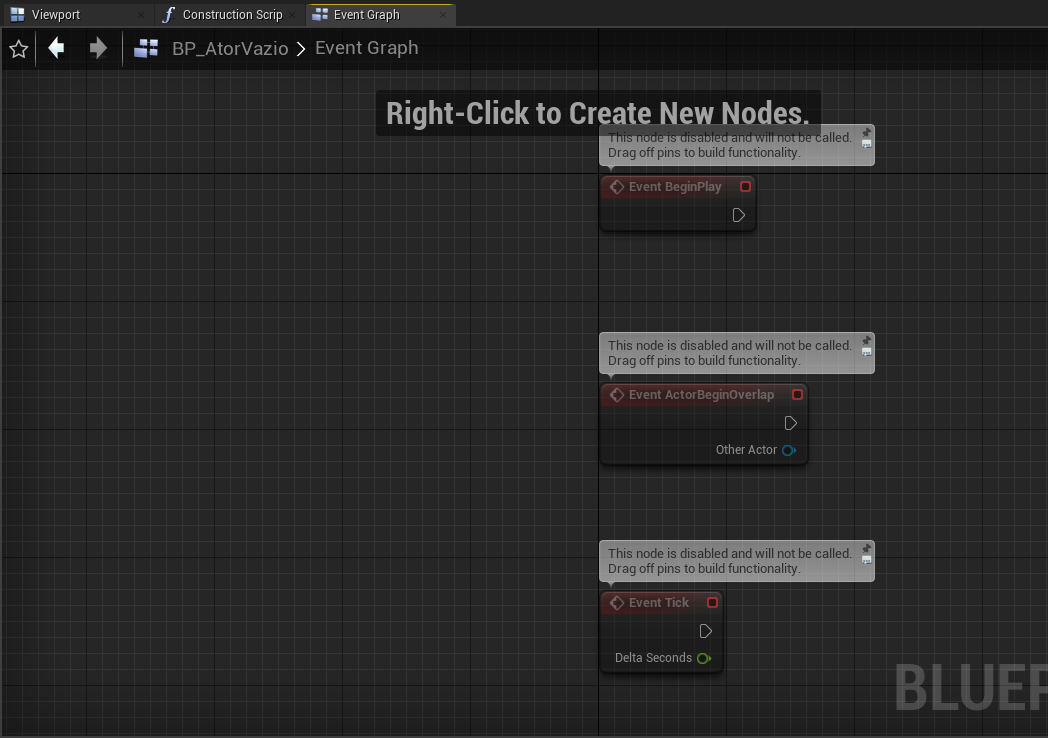
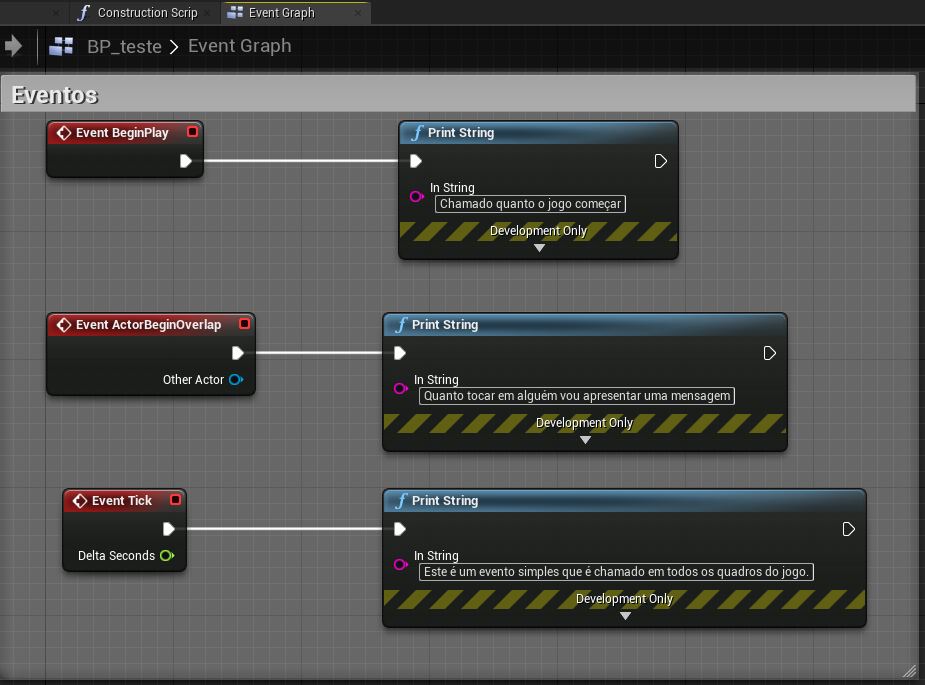
fix: formato

diff --git a/docs/modulo1/blueprint.md b/docs/modulo1/blueprint.md
@@ -6,6 +6,7 @@
 > 1. [Level Blueprint](#2)  
 > 1. [Blueprint de atores](#3)
 > 1. [Utilizando o level Blueprint para escrever   mensagens na tela](#4)
+> 1. [Comentários](#4)
 
 <a name="1"></a>
 ## 1. Introdução ao *Blueprints Visual Scripting*
@@ -17,8 +18,8 @@ O sistema *Blueprints Visual Scripting* no *Unreal Engine* é um sistema complet
 - Fácil de entender, interagir e construir.  
 
 ### 1.2 Construção
-|**C++**  ||**Blueprints**  | 7+ Ferramentas e editores  | Compilação e execução |
-|:-:|-|-|-|-|
+|**C++**  |**Blueprints**  | 7+ Ferramentas e editores  | Compilação e execução |
+|:-:|-|-|-|
 |  |Framework classes | Timeline|  |  Depuração e adicionais de performance|
 |  | Replicação |Componentes| Comunicação entre BP |  |
 |  |  |Editor de script|  |  |
@@ -29,7 +30,7 @@ O sistema *Blueprints Visual Scripting* no *Unreal Engine* é um sistema complet
 
 <a name="2"></a>
 ## 2. Level Blueprint  
-Um Level Blueprint é um tipo especializado de Blueprint que atua como um gráfico de evento global em todo o nível. Cada nível em seu projeto tem seu próprio Level Blueprint criado por padrão, que pode ser editado no Unreal Editor, no entanto, novos *Level Blueprints* não podem ser criados por meio da interface do editor.  
+Um Level Blueprint é um tipo especializado de Blueprint que atua como um gráfico de evento global em todo o nível. Cada nível em seu projeto tem seu próprio Level Blueprint criado por padrão, que pode ser editado no *Unreal Editor*, no entanto, novos *Level Blueprints* não podem ser criados por meio da interface do editor.  
 
  ![Open Level Blueprint](https://docs.unrealengine.com/Images/Engine/Blueprints/UserGuide/Types/LevelBlueprint/toolbar_level_editor.webp)
 
@@ -49,26 +50,65 @@ Uma classe Blueprint, muitas vezes abreviada como Blueprint, é um ativo que per
 ![Atores](../imagens/actor/actor41.png)
 
 
-### 3.2 Blueprints
-- Components
-Os componentes são um tipo especial de objeto que os atores podem anexar a si próprios como subobjetos. Os componentes são úteis para compartilhar comportamentos comuns, como a capacidade de exibir uma representação visual e reproduzir sons. Eles também podem representar conceitos específicos do projeto, como a maneira como um veículo interpreta a entrada e muda sua própria velocidade e orientação. Por exemplo, um projeto com carros, aeronaves e barcos controláveis pelo usuário pode implementar as diferenças no controle e movimento do veículo, alterando qual componente um ator do veículo usa.  
+### 3.2 Components
+Os *Components* ou componentes são um tipo especial de objeto que os atores podem anexar a si próprios como subobjetos. Os componentes são úteis para compartilhar comportamentos comuns, como a capacidade de exibir uma representação visual e reproduzir sons. Eles também podem representar conceitos específicos do projeto, como a maneira como um veículo interpreta a entrada e muda sua própria velocidade e orientação. Por exemplo, um projeto com carros, aeronaves e barcos controláveis pelo usuário pode implementar as diferenças no controle e movimento do veículo, alterando qual componente um ator do veículo usa.
+
+![Atores](../imagens/actor/actor46.png)
+
+### 3.3 Components e My Blueprint    
+- Components - Apresenta todos os componentes anexados ao objeto principal.
+- My Blueprint - Apresenta os eventos, funções, macros e variáveis presentes dentro do objeto.  
+
 ![Atores](../imagens/actor/actor42.png)
 
-- Construction Script
- Lógica de que é executada na construção do objeto, similares ao eventos **construtor** em C++.  
+**Representação da organização do objeto**.
+
+```
+|-- Objeto
+|   |-- Events
+|   |   |-- BeginPlay
+|   |   |-- ActorBeginOverlap
+|   |   |-- Tick
+|   |-- Functions
+|   |   |-- ConstructionScript
+|   |-- Variables      
+|   |   |-- VariavelLocal
+```
+### 3.4 Construction Script
+
+Lógica de que é executada na construção do objeto, similares ao eventos **Construtor** em C++.  
+**Exemplo**
+
  ![Atores](../imagens/actor/actor43.png)
 
-- Event Graph
+### 3.5 Event Graph
 Contém um gráfico de nós e suas ligações representando a lógica de um Blueprint.     
 ![Atores](../imagens/actor/actor44.png)
+
+**BeginPlay**
+
+Este evento é acionado para todos os Atores quando o jogo é iniciado, quaisquer Atores gerados após o jogo ser iniciado terão isso chamado imediatamente.
+
+**ActorBeginOverlap**
+
+Este evento será executado quando uma série de condições forem atendidas ao mesmo tempo:
+  - A resposta à colisão entre os atores deve permitir sobreposições.
+  - Ambos os Atores que devem executar o evento têm Gerar Eventos de Sobreposição definido como verdadeiro.
+  - E, finalmente, a colisão de ambos os Atores começa a se sobrepor; movendo-se juntos ou um é criado sobrepondo-se ao outro.
+
+**Tick**
+
+Este é um evento simples que é chamado em todos os quadros do jogo.
 
 <a name="4"></a>
 ## 4. Utilizando o level Blueprint para escrever   mensagens na tela
  Utilizando o evento **BeginPlay** e conectando o nó **Print String** para escrever uma mensagem na tela.
+
 ![Atores](../imagens/actor/actor45.png)
 
-- Comentários   
-Os comentários podem ser incluídos diretamente em nós Blueprint únicos ou podem ser incluídos como caixas de comentários para agrupar nós relacionados e fornecer descrições sobre sua funcionalidade. Eles podem ser usados apenas para fins organizacionais para tornar os gráficos mais legíveis, mas também podem ser usados para fins informativos, pois permitem que descrições textuais sejam adicionadas da mesma forma que adicionar comentários ao código.
+<a name="5"></a>
+## 5. Comentários   
+Os comentários podem ser incluídos diretamente em nós **Blueprint** únicos ou podem ser incluídos como caixas de comentários para agrupar nós relacionados e fornecer descrições sobre sua funcionalidade. Eles podem ser usados apenas para fins organizacionais para tornar os gráficos mais legíveis, mas também podem ser usados para fins informativos, pois permitem que descrições textuais sejam adicionadas da mesma forma que adicionar comentários ao código.
 
 - Selecione os nós e digite "C" no teclado para adicionar um comentário.
 
@@ -83,3 +123,4 @@ Os comentários podem ser incluídos diretamente em nós Blueprint únicos ou po
 - [Placing Actors](https://docs.unrealengine.com/en-US/Engine/Actors/Placement/index.html)
 - [Blueprint Class](https://docs.unrealengine.com/en-US/Engine/Blueprints/UserGuide/Types/ClassBlueprint/index.html)
 - [Comments](https://docs.unrealengine.com/en-US/Engine/Blueprints/UserGuide/Comments/index.html)
+-[Events](https://docs.unrealengine.com/en-US/ProgrammingAndScripting/Blueprints/UserGuide/Events/index.html)
